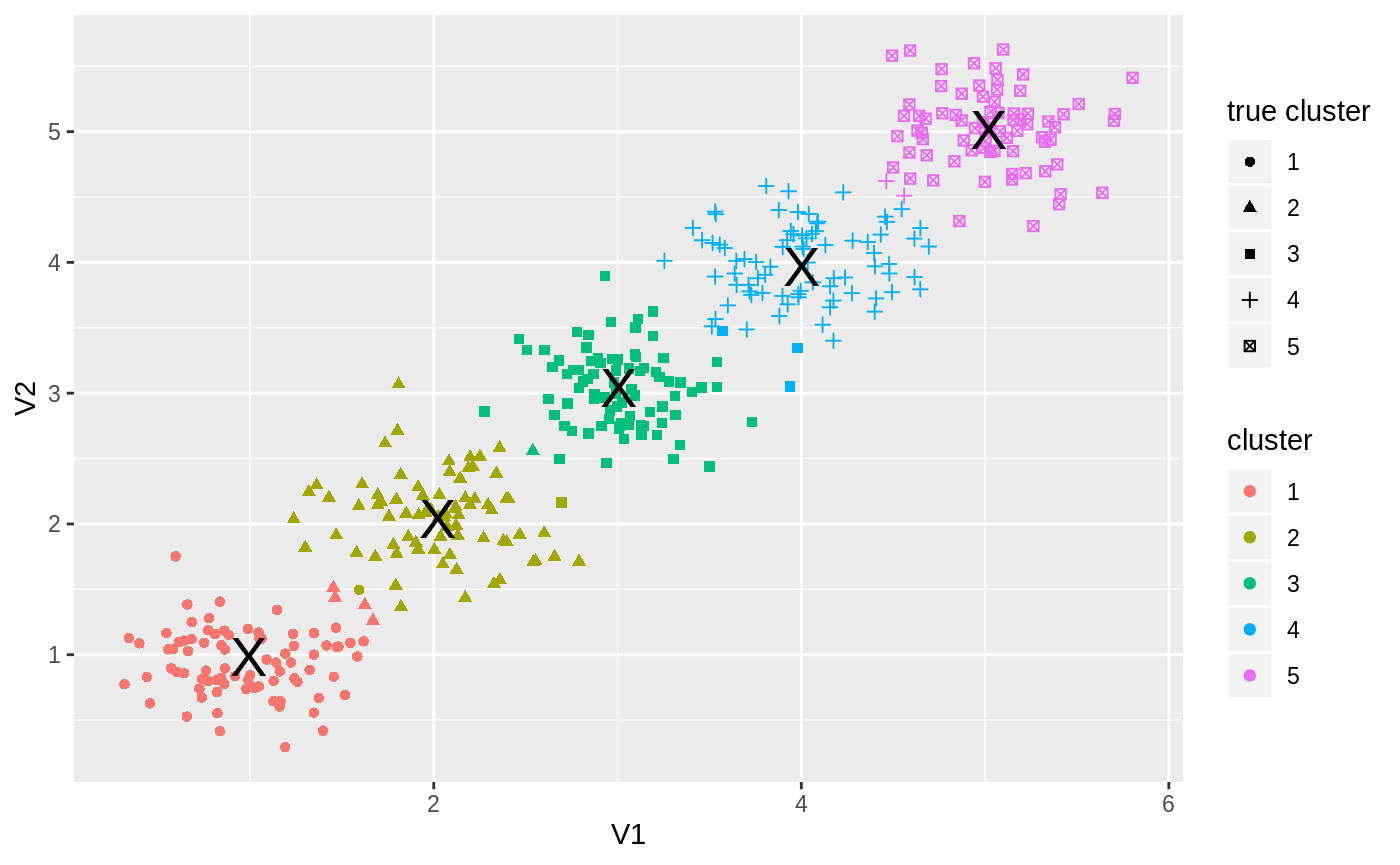
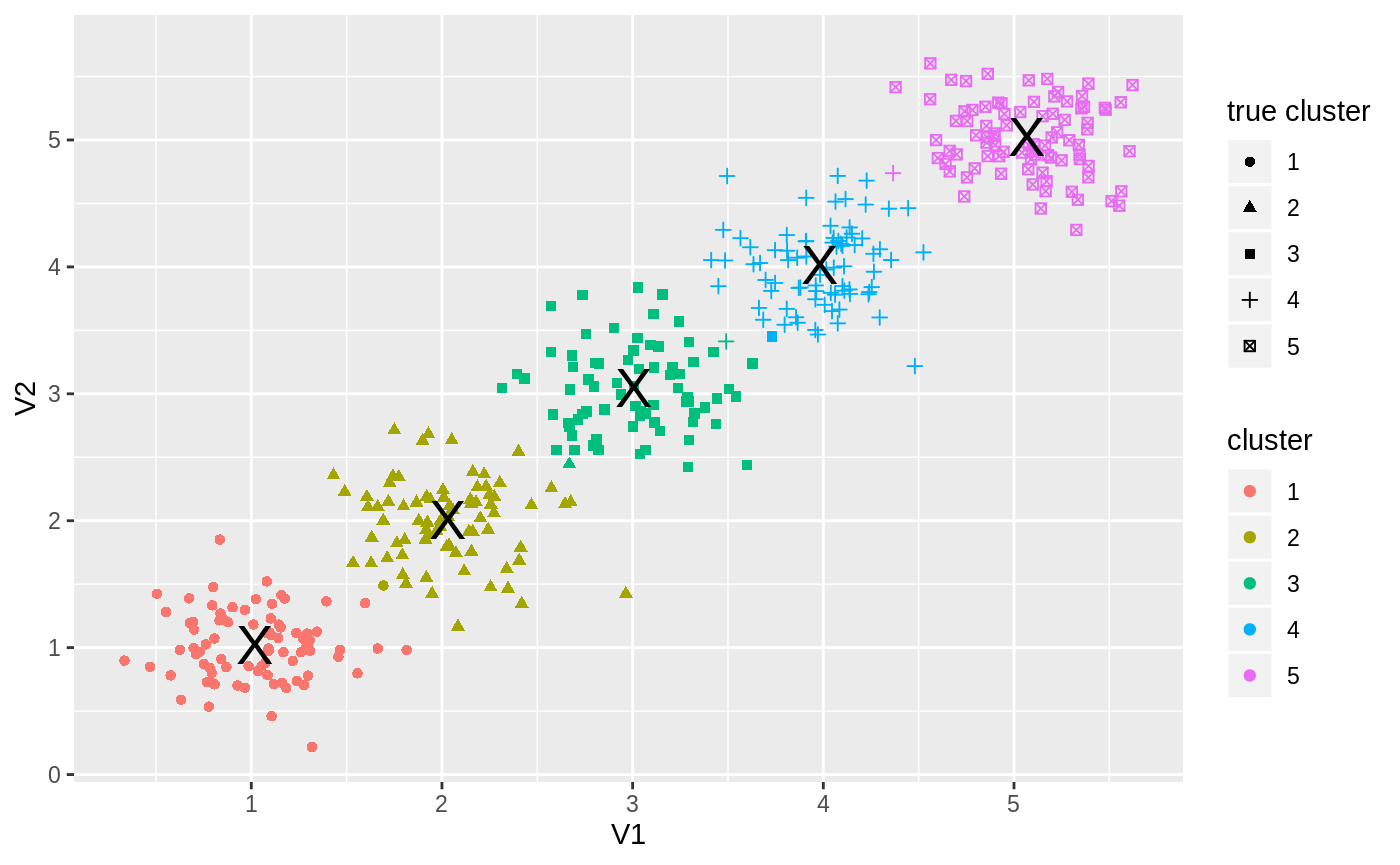
Built site for tglkmeans: 0.3.0@ce47375

diff --git a/articles/usage.html b/articles/usage.html
@@ -108,16 +108,16 @@
 <pre><code>## # A tibble: 500 x 4
 ##       id    V1    V2 true_clust
 ##    &lt;int&gt; &lt;dbl&gt; &lt;dbl&gt;      &lt;int&gt;
-##  1     1 1.24  0.820          1
-##  2     2 1.61  1.26           1
-##  3     3 0.761 0.878          1
-##  4     4 0.725 0.738          1
-##  5     5 0.556 1.04           1
-##  6     6 0.980 0.737          1
-##  7     7 0.835 0.415          1
-##  8     8 0.615 1.10           1
-##  9     9 0.438 0.829          1
-## 10    10 0.596 1.75           1
+##  1     1 1.73  0.707          1
+##  2     2 0.782 0.841          1
+##  3     3 1.22  0.895          1
+##  4     4 1.60  1.35           1
+##  5     5 1.39  1.37           1
+##  6     6 0.777 0.535          1
+##  7     7 0.552 1.28           1
+##  8     8 0.838 1.27           1
+##  9     9 0.767 0.727          1
+## 10    10 1.09  0.993          1
 ## # … with 490 more rows</code></pre>
 <p>This is how our data looks like:</p>
 <div class="sourceCode" id="cb3"><pre class="sourceCode r"><code class="sourceCode r"><a class="sourceLine" id="cb3-1" data-line-number="1">data <span class="op">%&gt;%</span><span class="st"> </span><span class="kw">ggplot</span>(<span class="kw">aes</span>(<span class="dt">x=</span>V1, <span class="dt">y=</span>V2, <span class="dt">color=</span><span class="kw"><a href="https://rdrr.io/r/base/factor.html">factor</a></span>(true_clust))) <span class="op">+</span><span class="st"> </span></a>
@@ -138,32 +138,30 @@
 ## at seed 1
 ## done update min distance
 ## seed range 350 450
-## picked up 474 dist was 2.09187
-## add new core from 474 to 1
+## picked up 440 dist was 1.91971
+## add new core from 440 to 1
 ## at seed 2
 ## done update min distance
 ## seed range 300 400
-## picked up 333 dist was 0.942135
-## add new core from 333 to 2
+## picked up 62 dist was 0.805299
+## add new core from 62 to 2
 ## at seed 3
 ## done update min distance
 ## seed range 250 350
-## picked up 25 dist was 0.903615
-## add new core from 25 to 3
+## picked up 243 dist was 0.78472
+## add new core from 243 to 3
 ## at seed 4
 ## done update min distance
 ## seed range 200 300
-## picked up 246 dist was 0.431997
-## add new core from 246 to 4
+## picked up 304 dist was 0.605113
+## add new core from 304 to 4
 ## KMEans: reassign after init
 ## KMEans: iter 0
-## KMEans: iter 1 changed 3
+## KMEans: iter 1 changed 4
 ## KMEans: iter 1
-## KMEans: iter 2 changed 3
+## KMEans: iter 2 changed 1
 ## KMEans: iter 2
-## KMEans: iter 3 changed 1
-## KMEans: iter 3
-## KMEans: iter 4 changed 0</code></pre>
+## KMEans: iter 3 changed 0</code></pre>
 <p>The returned list contains 3 fields:</p>
 <div class="sourceCode" id="cb7"><pre class="sourceCode r"><code class="sourceCode r"><a class="sourceLine" id="cb7-1" data-line-number="1"><span class="kw"><a href="https://rdrr.io/r/base/names.html">names</a></span>(km)</a></code></pre></div>
 <pre><code>## [1] "centers" "cluster" "size"</code></pre>
@@ -172,11 +170,11 @@
 <pre><code>## # A tibble: 5 x 3
 ##   clust    V1    V2
 ##   &lt;int&gt; &lt;dbl&gt; &lt;dbl&gt;
-## 1     1  2.03 2.06 
-## 2     2  2.99 3.05 
-## 3     3  1.00 0.989
-## 4     4  5.02 5.01 
-## 5     5  4.00 3.96</code></pre>
+## 1     1  3.99  4.00
+## 2     2  3.03  3.03
+## 3     3  1.03  1.02
+## 4     4  2.03  1.99
+## 5     5  5.06  5.03</code></pre>
 <p>clusters are numbered according to <code>order_func</code> (see ‘Custom cluster ordering’ section).</p>
 <p><code>km$cluster</code> contains tibble with <code>id</code> column with the observation id (<code>1:n</code> if no id column was supplied), and <code>clust</code> column with the observation assigned cluster:</p>
 <div class="sourceCode" id="cb11"><pre class="sourceCode r"><code class="sourceCode r"><a class="sourceLine" id="cb11-1" data-line-number="1">km<span class="op">$</span>cluster</a></code></pre></div>
@@ -199,15 +197,15 @@
 <pre><code>## # A tibble: 5 x 2
 ##   clust     n
 ##   &lt;int&gt; &lt;int&gt;
-## 1     1    99
-## 2     2    95
-## 3     3   103
-## 4     4   102
-## 5     5   101</code></pre>
+## 1     1   100
+## 2     2   100
+## 3     3   100
+## 4     4   100
+## 5     5   100</code></pre>
 <p>We can now check our clustering performance - fraction of observations that were classified correctly (Note that <code>match_clusters</code> function is internal to the package and is used only in this vignette):</p>
 <div class="sourceCode" id="cb15"><pre class="sourceCode r"><code class="sourceCode r"><a class="sourceLine" id="cb15-1" data-line-number="1">d &lt;-<span class="st"> </span>tglkmeans<span class="op">:::</span><span class="kw">match_clusters</span>(data, km, <span class="dv">5</span>)</a>
 <a class="sourceLine" id="cb15-2" data-line-number="2"><span class="kw"><a href="https://rdrr.io/r/base/sum.html">sum</a></span>(d<span class="op">$</span>true_clust <span class="op">==</span><span class="st"> </span>d<span class="op">$</span>new_clust, <span class="dt">na.rm=</span><span class="ot">TRUE</span>) <span class="op">/</span><span class="st"> </span><span class="kw"><a href="https://rdrr.io/r/base/sum.html">sum</a></span>(<span class="op">!</span><span class="kw"><a href="https://rdrr.io/r/base/NA.html">is.na</a></span>(d<span class="op">$</span>new_clust))</a></code></pre></div>
-<pre><code>## [1] 0.968</code></pre>
+<pre><code>## [1] 0.984</code></pre>
 <p>And plot the results:</p>
 <div class="sourceCode" id="cb17"><pre class="sourceCode r"><code class="sourceCode r"><a class="sourceLine" id="cb17-1" data-line-number="1">d <span class="op">%&gt;%</span><span class="st"> </span><span class="kw">ggplot</span>(<span class="kw">aes</span>(<span class="dt">x=</span>V1, <span class="dt">y=</span>V2, <span class="dt">color=</span><span class="kw"><a href="https://rdrr.io/r/base/factor.html">factor</a></span>(new_clust), <span class="dt">shape=</span><span class="kw"><a href="https://rdrr.io/r/base/factor.html">factor</a></span>(true_clust))) <span class="op">+</span><span class="st"> </span></a>
 <a class="sourceLine" id="cb17-2" data-line-number="2"><span class="st">    </span><span class="kw">geom_point</span>() <span class="op">+</span><span class="st"> </span></a>
@@ -230,11 +228,11 @@
 <pre><code>## # A tibble: 5 x 3
 ##   clust    V1    V2
 ##   &lt;int&gt; &lt;dbl&gt; &lt;dbl&gt;
-## 1     1  1.00 0.989
-## 2     2  2.03 2.06 
-## 3     3  2.99 3.05 
-## 4     4  4.00 3.96 
-## 5     5  5.02 5.01</code></pre>
+## 1     1  1.03  1.02
+## 2     2  2.03  1.99
+## 3     3  3.03  3.03
+## 4     4  3.99  4.00
+## 5     5  5.06  5.03</code></pre>
 </div>
 <div id="missing-data" class="section level2">
 <h2 class="hasAnchor">
@@ -245,16 +243,16 @@
 <pre><code>## # A tibble: 500 x 4
 ##       id     V1    V2 true_clust
 ##    &lt;int&gt;  &lt;dbl&gt; &lt;dbl&gt;      &lt;int&gt;
-##  1     1  1.24  0.820          1
-##  2     2 NA     1.26           1
-##  3     3  0.761 0.878          1
-##  4     4  0.725 0.738          1
-##  5     5  0.556 1.04           1
-##  6     6  0.980 0.737          1
-##  7     7  0.835 0.415          1
-##  8     8  0.615 1.10           1
-##  9     9  0.438 0.829          1
-## 10    10  0.596 1.75           1
+##  1     1 NA     0.707          1
+##  2     2  0.782 0.841          1
+##  3     3  1.22  0.895          1
+##  4     4  1.60  1.35           1
+##  5     5  1.39  1.37           1
+##  6     6  0.777 0.535          1
+##  7     7  0.552 1.28           1
+##  8     8  0.838 1.27           1
+##  9     9  0.767 0.727          1
+## 10    10  1.09  0.993          1
 ## # … with 490 more rows</code></pre>
 <div class="sourceCode" id="cb22"><pre class="sourceCode r"><code class="sourceCode r"><a class="sourceLine" id="cb22-1" data-line-number="1">km &lt;-<span class="st"> </span><span class="kw"><a href="../reference/TGL_kmeans_tidy.html">TGL_kmeans_tidy</a></span>(data <span class="op">%&gt;%</span><span class="st"> </span><span class="kw">select</span>(id, <span class="kw">starts_with</span>(<span class="st">'V'</span>)), </a>
 <a class="sourceLine" id="cb22-2" data-line-number="2">              <span class="dt">k=</span><span class="dv">5</span>, </a>
@@ -262,7 +260,7 @@
 <a class="sourceLine" id="cb22-4" data-line-number="4">              <span class="dt">verbose=</span><span class="ot">FALSE</span>)</a>
 <a class="sourceLine" id="cb22-5" data-line-number="5">d &lt;-<span class="st"> </span>tglkmeans<span class="op">:::</span><span class="kw">match_clusters</span>(data, km, <span class="dv">5</span>)</a>
 <a class="sourceLine" id="cb22-6" data-line-number="6"><span class="kw"><a href="https://rdrr.io/r/base/sum.html">sum</a></span>(d<span class="op">$</span>true_clust <span class="op">==</span><span class="st"> </span>d<span class="op">$</span>new_clust, <span class="dt">na.rm=</span><span class="ot">TRUE</span>) <span class="op">/</span><span class="st"> </span><span class="kw"><a href="https://rdrr.io/r/base/sum.html">sum</a></span>(<span class="op">!</span><span class="kw"><a href="https://rdrr.io/r/base/NA.html">is.na</a></span>(d<span class="op">$</span>new_clust))</a></code></pre></div>
-<pre><code>## [1] 0.954</code></pre>
+<pre><code>## [1] 0.972</code></pre>
 <p>and plotting the results (without the NA’s) we get:</p>
 <div class="sourceCode" id="cb24"><pre class="sourceCode r"><code class="sourceCode r"><a class="sourceLine" id="cb24-1" data-line-number="1">d <span class="op">%&gt;%</span><span class="st"> </span><span class="kw">ggplot</span>(<span class="kw">aes</span>(<span class="dt">x=</span>V1, <span class="dt">y=</span>V2, <span class="dt">color=</span><span class="kw"><a href="https://rdrr.io/r/base/factor.html">factor</a></span>(new_clust), <span class="dt">shape=</span><span class="kw"><a href="https://rdrr.io/r/base/factor.html">factor</a></span>(true_clust))) <span class="op">+</span><span class="st"> </span></a>
 <a class="sourceLine" id="cb24-2" data-line-number="2"><span class="st">    </span><span class="kw">geom_point</span>() <span class="op">+</span><span class="st"> </span></a>
@@ -294,7 +292,7 @@
 <a class="sourceLine" id="cb29-3" data-line-number="3"></a>
 <a class="sourceLine" id="cb29-4" data-line-number="4">d &lt;-<span class="st"> </span>tglkmeans<span class="op">:::</span><span class="kw">match_clusters</span>(data, km_standard, <span class="dv">30</span>)</a>
 <a class="sourceLine" id="cb29-5" data-line-number="5"><span class="kw"><a href="https://rdrr.io/r/base/sum.html">sum</a></span>(d<span class="op">$</span>true_clust <span class="op">==</span><span class="st"> </span>d<span class="op">$</span>new_clust, <span class="dt">na.rm=</span><span class="ot">TRUE</span>) <span class="op">/</span><span class="st"> </span><span class="kw"><a href="https://rdrr.io/r/base/sum.html">sum</a></span>(<span class="op">!</span><span class="kw"><a href="https://rdrr.io/r/base/NA.html">is.na</a></span>(d<span class="op">$</span>new_clust))</a></code></pre></div>
-<pre><code>## [1] 0.6521739</code></pre>
+<pre><code>## [1] 0.7894737</code></pre>
 <p>We can see that kmeans++ clusters siginifcantly better than R vannila kmeans.</p>
 </div>
 <div id="random-seed" class="section level2">

diff --git a/reference/TGL_kmeans.html b/reference/TGL_kmeans.html
@@ -234,43 +234,41 @@ if NULL, no reordering would be done.</p></td>
 <span class='no'>km</span> <span class='kw'>&lt;-</span> <span class='fu'>TGL_kmeans</span>(<span class='no'>d</span>, <span class='kw'>k</span> <span class='kw'>=</span> <span class='fl'>5</span>, <span class='st'>"euclid"</span>, <span class='kw'>verbose</span> <span class='kw'>=</span> <span class='fl'>TRUE</span>)</div><div class='output co'>#&gt; <span class='message'>id column: id</span></div><div class='output co'>#&gt; KMEans: will generate seeds
 #&gt; KMeans into generate seeds
 #&gt; at seed 0
-#&gt; add new core from 97 to 0
+#&gt; add new core from 22 to 0
 #&gt; at seed 1
 #&gt; done update min distance
 #&gt; seed range 350 450
-#&gt; picked up 433 dist was 2.52422
-#&gt; add new core from 433 to 1
+#&gt; picked up 416 dist was 2.62667
+#&gt; add new core from 416 to 1
 #&gt; at seed 2
 #&gt; done update min distance
 #&gt; seed range 300 400
-#&gt; picked up 244 dist was 1.28203
-#&gt; add new core from 244 to 2
+#&gt; picked up 242 dist was 1.34054
+#&gt; add new core from 242 to 2
 #&gt; at seed 3
 #&gt; done update min distance
 #&gt; seed range 250 350
-#&gt; picked up 336 dist was 0.666263
-#&gt; add new core from 336 to 3
+#&gt; picked up 114 dist was 0.603303
+#&gt; add new core from 114 to 3
 #&gt; at seed 4
 #&gt; done update min distance
 #&gt; seed range 200 300
-#&gt; picked up 142 dist was 0.60569
-#&gt; add new core from 142 to 4
+#&gt; picked up 345 dist was 0.661064
+#&gt; add new core from 345 to 4
 #&gt; KMEans: reassign after init
 #&gt; KMEans: iter 0
-#&gt; KMEans: iter 1 changed 5
+#&gt; KMEans: iter 1 changed 2
 #&gt; KMEans: iter 1
-#&gt; KMEans: iter 2 changed 2
+#&gt; KMEans: iter 2 changed 1
 #&gt; KMEans: iter 2
-#&gt; KMEans: iter 3 changed 1
-#&gt; KMEans: iter 3
-#&gt; KMEans: iter 4 changed 0</div><div class='input'><span class='fu'><a href='https://rdrr.io/r/base/names.html'>names</a></span>(<span class='no'>km</span>)</div><div class='output co'>#&gt; [1] "cluster" "centers" "size"   </div><div class='input'><span class='no'>km</span>$<span class='no'>centers</span></div><div class='output co'>#&gt;            V1       V2
-#&gt; [1,] 2.004643 2.058945
-#&gt; [2,] 3.972232 4.046328
-#&gt; [3,] 2.977600 3.015143
+#&gt; KMEans: iter 3 changed 0</div><div class='input'><span class='fu'><a href='https://rdrr.io/r/base/names.html'>names</a></span>(<span class='no'>km</span>)</div><div class='output co'>#&gt; [1] "cluster" "centers" "size"   </div><div class='input'><span class='no'>km</span>$<span class='no'>centers</span></div><div class='output co'>#&gt;            V1       V2
+#&gt; [1,] 3.969391 4.038842
+#&gt; [2,] 2.004643 2.058945
+#&gt; [3,] 2.970509 3.012197
 #&gt; [4,] 1.019032 1.034553
 #&gt; [5,] 4.975310 5.048907</div><div class='input'><span class='fu'><a href='https://rdrr.io/r/utils/head.html'>head</a></span>(<span class='no'>km</span>$<span class='no'>cluster</span>)</div><div class='output co'>#&gt; 1 2 3 4 5 6 
 #&gt; 4 4 4 4 4 4 </div><div class='input'><span class='no'>km</span>$<span class='no'>size</span></div><div class='output co'>#&gt;   1   2   3   4   5 
-#&gt; 102  97 102 100  99 </div><div class='input'>
+#&gt;  98 102 101 100  99 </div><div class='input'>
 </div></pre>
   </div>
   <div class="col-md-3 hidden-xs hidden-sm" id="sidebar">

diff --git a/reference/TGL_kmeans_tidy.html b/reference/TGL_kmeans_tidy.html
@@ -234,42 +234,44 @@ if NULL, no reordering would be done.</p></td>
 <span class='no'>km</span> <span class='kw'>&lt;-</span> <span class='fu'>TGL_kmeans_tidy</span>(<span class='no'>d</span>, <span class='kw'>k</span> <span class='kw'>=</span> <span class='fl'>5</span>, <span class='st'>"euclid"</span>, <span class='kw'>verbose</span> <span class='kw'>=</span> <span class='fl'>TRUE</span>)</div><div class='output co'>#&gt; <span class='message'>id column: id</span></div><div class='output co'>#&gt; KMEans: will generate seeds
 #&gt; KMeans into generate seeds
 #&gt; at seed 0
-#&gt; add new core from 50 to 0
+#&gt; add new core from 21 to 0
 #&gt; at seed 1
 #&gt; done update min distance
 #&gt; seed range 350 450
-#&gt; picked up 437 dist was 2.87503
-#&gt; add new core from 437 to 1
+#&gt; picked up 407 dist was 2.57214
+#&gt; add new core from 407 to 1
 #&gt; at seed 2
 #&gt; done update min distance
 #&gt; seed range 300 400
-#&gt; picked up 259 dist was 1.42466
-#&gt; add new core from 259 to 2
+#&gt; picked up 206 dist was 0.978635
+#&gt; add new core from 206 to 2
 #&gt; at seed 3
 #&gt; done update min distance
 #&gt; seed range 250 350
-#&gt; picked up 144 dist was 0.711574
-#&gt; add new core from 144 to 3
+#&gt; picked up 316 dist was 0.693939
+#&gt; add new core from 316 to 3
 #&gt; at seed 4
 #&gt; done update min distance
 #&gt; seed range 200 300
-#&gt; picked up 366 dist was 0.644393
-#&gt; add new core from 366 to 4
+#&gt; picked up 112 dist was 0.453713
+#&gt; add new core from 112 to 4
 #&gt; KMEans: reassign after init
 #&gt; KMEans: iter 0
-#&gt; KMEans: iter 1 changed 1
+#&gt; KMEans: iter 1 changed 13
 #&gt; KMEans: iter 1
-#&gt; KMEans: iter 2 changed 1
+#&gt; KMEans: iter 2 changed 5
 #&gt; KMEans: iter 2
-#&gt; KMEans: iter 3 changed 0</div><div class='input'><span class='no'>km</span></div><div class='output co'>#&gt; $centers
+#&gt; KMEans: iter 3 changed 1
+#&gt; KMEans: iter 3
+#&gt; KMEans: iter 4 changed 0</div><div class='input'><span class='no'>km</span></div><div class='output co'>#&gt; $centers
 #&gt; # A tibble: 5 x 3
 #&gt;   clust    V1    V2
 #&gt;   &lt;int&gt; &lt;dbl&gt; &lt;dbl&gt;
 #&gt; 1     1 3.03  3.01 
 #&gt; 2     2 0.945 0.926
-#&gt; 3     3 4.99  4.98 
-#&gt; 4     4 1.96  2.02 
-#&gt; 5     5 4.03  4.04 
+#&gt; 3     3 5.00  4.99 
+#&gt; 4     4 4.04  4.04 
+#&gt; 5     5 1.96  2.02 
 #&gt; 
 #&gt; $cluster
 #&gt; # A tibble: 500 x 2
@@ -293,9 +295,9 @@ if NULL, no reordering would be done.</p></td>
 #&gt;   &lt;int&gt; &lt;int&gt;
 #&gt; 1     1   101
 #&gt; 2     2    98
-#&gt; 3     3   100
-#&gt; 4     4   102
-#&gt; 5     5    99
+#&gt; 3     3    99
+#&gt; 4     4   100
+#&gt; 5     5   102
 #&gt; </div></pre>
   </div>
   <div class="col-md-3 hidden-xs hidden-sm" id="sidebar">

diff --git a/index.html b/index.html
@@ -85,6 +85,8 @@
 
       </header><div class="row">
   <div class="contents col-md-9">
+
+
 <div id="tglkmeans---efficient-implementation-of-kmeans-algorithm" class="section level1">
 <div class="page-header"><h1 class="hasAnchor">
 <a href="#tglkmeans---efficient-implementation-of-kmeans-algorithm" class="anchor"></a>tglkmeans - efficient implementation of kmeans++ algorithm</h1></div>
@@ -101,6 +103,7 @@
 </div>
 </div>
 </div>
+
   </div>
 
   <div class="col-md-3 hidden-xs hidden-sm" id="sidebar">
@@ -125,7 +128,14 @@
 </ul>
 </div>
 
-  </div>
+  <div class="dev-status">
+<h2>Dev status</h2>
+<ul class="list-unstyled">
+<li><a href="https://travis-ci.org/tanaylab/tglkmeans"><img src="https://travis-ci.org/tanaylab/tglkmeans.svg?branch=master" alt="Travis build status"></a></li>
+<li><a href="https://codecov.io/gh/tanaylab/tglkmeans?branch=master"><img src="https://codecov.io/gh/tanaylab/tglkmeans/branch/master/graph/badge.svg" alt="Codecov test coverage"></a></li>
+</ul>
+</div>
+</div>
 </div>
 
 
